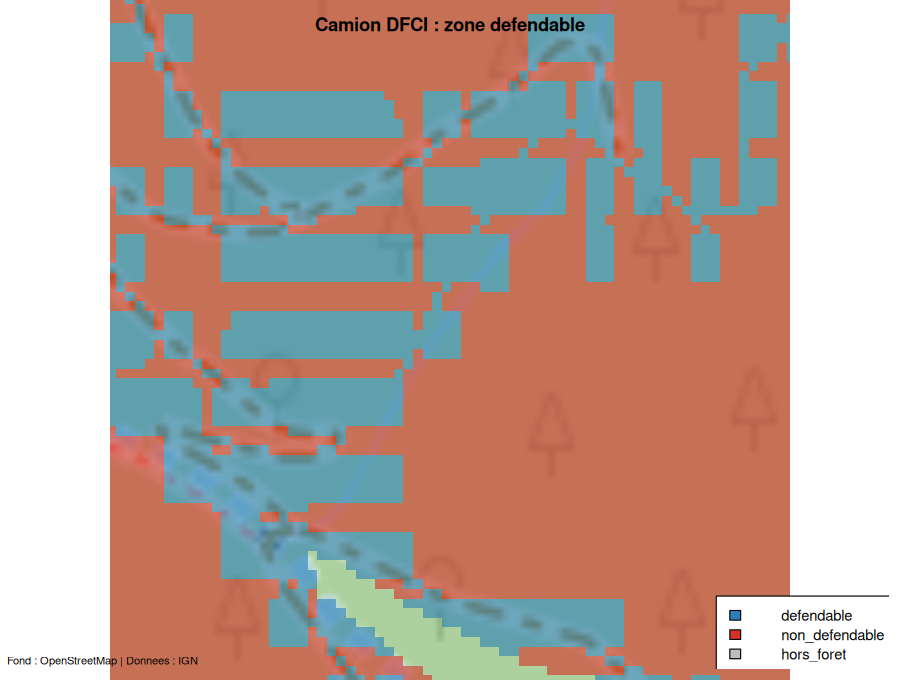
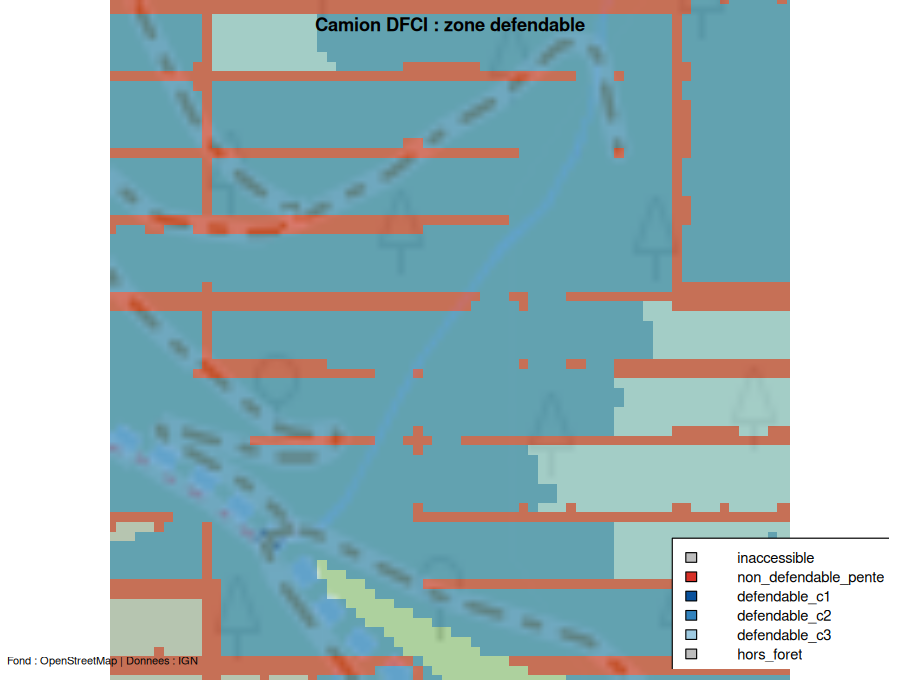
docs(pkgdown): attributions completes (SEILAPLAN, SylvaRoad, FRD, ForestRoadNetwork), schema desserte, cartes refaites
Attributions -- mises a jour et verifiees sur toutes les pages :
- README : section attribution refondue en 4 groupes (Sylvaccess ; SEILAPLAN ;
  SylvaRoad + Forest Road Designer ; ForestRoadNetwork), refs et provenance exactes.
- CITATION.cff : 5 references (Sylvaccess + les 4 oeuvres derivees, CFF).
- Vignettes foretaccess/desserte/architecture/cartes : blocs attribution alignes.
- Corrige "C. Klemet" -> "Klemet" (prenom jamais atteste dans le depot).

Schema : nouveau man/figures/architecture.svg (rendable par pkgdown, contrairement a
docs/architecture.svg supprime) couvrant les DEUX epics -- cartographie de
l'accessibilite ET conception de desserte -- avec attributions inline. README et
brief repointes. Corrige aussi "DFCI beta" et "Statut : Lots 0 a 8" perimes.

Cartes refaites : la carte DFCI etait cassee (palette 3 classes vs 6 du moteur
radial ; `classes_source` obsolete remplace par le flag `dfci` lu par preprocess).
data-raw/cartes.R corrige (flag dfci + palette 6 classes), 8 PNG regeneres depuis
l'IGN/OSM. Note de perf de cartes.Rmd corrigee : le cable n'est plus "impraticable"
(noyau Rust parallelise, ~40 s sur ColduPre a c_sup=3).

Claude-Session: https://claude.ai/code/session_01WWgnMu3WuRq1JEVUj1EdEM

diff --git a/README.md b/README.md
@@ -29,7 +29,7 @@ pre <- preprocess(
 
 sk  <- skidder(pre)          # débusqueur
 po  <- porteur(pre)          # porteur
-df  <- camion_dfci(pre)      # zone défendable DFCI (beta)
+df  <- camion_dfci(pre)      # zone défendable DFCI (moteur radial)
 cab <- potentiel_cable(pre)  # lignes de câble faisables (noyau Rust)
 sel <- selectionner_lignes(cab)
 
@@ -46,18 +46,23 @@ vignette("foretaccess")
 
 ## Architecture
 
-![Architecture ForêtAccess](docs/architecture.svg)
+![Architecture ForêtAccess](man/figures/architecture.svg)
 
-Détail des couches, périmètre et décisions : voir le **brief projet**
+Deux chaînes partant d'un prétraitement commun : la **cartographie de
+l'accessibilité** (moteurs terrestres et câble, dérivés de Sylvaccess) et la
+**conception de desserte** (surface de coût, tracé A\*, réseau, flux/typage,
+optimisation). Détail des couches, périmètre et décisions : voir le **brief projet**
 [`docs/foretaccess-brief.md`](docs/foretaccess-brief.md).
 
 ## Statut
 
 Développement *spec-driven* / agile par lots (`specs/0XX-*.md` + ADR + tests de
-non-régression). Les **Lots 0 à 8** sont livrés (prétraitement, moteurs skidder /
-porteur / câble Rust, sélection câble, camion DFCI beta, passage à l'échelle par
-tuilage, base spatiale & agrégation) ; la doc d'usage est en place (Lot 9). La
-feuille de route vit dans [`docs/ROADMAP.md`](docs/ROADMAP.md).
+non-régression). **Cartographie de l'accessibilité** (Lots 0-13) livrée et
+**validée cellule à cellule contre Sylvaccess** sur le jeu ColduPre (skidder
+99,95 %, porteur 99,72 %, câble 98,36 %, DFCI 99,87 %) — version majeure `v1.0.0`.
+**Conception de desserte** (Lots 14-18 : coût, tracé A\* Rust, réseau, flux/typage,
+optimisation) livrée en `v1.2.0`. Les feuilles de route vivent dans
+[`docs/ROADMAP.md`](docs/ROADMAP.md) et [`docs/ROADMAP-desserte.md`](docs/ROADMAP-desserte.md).
 
 ## Stack
 
@@ -73,11 +78,31 @@ spatiale potentiellement partagés.
 
 ## Licence & attribution
 
-Distribué sous **GPL v3** (travail dérivé de Sylvaccess, GPL v3). Merci de citer :
+ForêtAccess est distribué sous **GPL v3**. C'est un **travail dérivé** de plusieurs
+modèles libres, chacun sous GPL v3 ; merci de les citer selon la partie utilisée.
+
+**Cartographie de l'accessibilité (moteurs terrestres & câble, Lots 0-13)** — dérivé de
+**Sylvaccess** (INRAE, S. Dupire) :
 
 - Dupire S., Bourrier F., Monnet J.-M., Berger F. (2015). *Sylvaccess : un modèle pour
   cartographier automatiquement l'accessibilité des forêts.* Revue Forestière Française.
-- Dupire S., Bourrier F., Berger F. (2015). *Predicting load path and tensile forces
+- Dupire S., Bourrier F., Berger F. (2016). *Predicting load path and tensile forces
   during cable yarding operations on steep terrain.* Journal of Forest Research,
   DOI [10.1007/s10310-015-0503-4](https://doi.org/10.1007/s10310-015-0503-4).
 - Sylvaccess : DOI [10.15454/JUBESS](https://doi.org/10.15454/JUBESS).
+
+**Optimisation de la hauteur des supports câble (Lot 13)** — méthode **SEILAPLAN**
+(graphe + Dijkstra de Bont & Heinimann), P. Moll et al.
+([github.com/piMoll/SEILAPLAN](https://github.com/piMoll/SEILAPLAN), GPL v3) :
+
+- Bont L., Heinimann H.R. (2012). *Optimum geometric layout of a single cable road.*
+  European Journal of Forest Research.
+- Bont L.G., Moll P.E., Ramstein L., Frutig F., Heinimann H.R., Schweier J. (2022).
+  *SEILAPLAN, a QGIS Plugin for Cable Road Layout Design.* Croat. j. for. eng. 43(2).
+
+**Conception de desserte — solveur de tracé (Lot 15)** — porté de **SylvaRoad**
+(S. Dupire / SylvaLab / ONF, [gitlab.com/SDupire/sylvaroad](https://gitlab.com/SDupire/sylvaroad),
+GPL v3) et de **Forest Road Designer** (PANOimagen / Gob. La Rioja, GPL v3).
+
+**Conception de desserte — réseau, flux & typage (Lots 16-18)** — repris de
+**ForestRoadNetwork** (Klemet, plugin QGIS, GPL v3).

diff --git a/docs/foretaccess-brief.md b/docs/foretaccess-brief.md
@@ -88,7 +88,7 @@ Choix structurants :
 
 ## 3. Architecture cible
 
-Schéma complet (vectoriel, versionnable) : [`docs/architecture.svg`](architecture.svg).
+Schéma complet (vectoriel, versionnable) : [`man/figures/architecture.svg`](../man/figures/architecture.svg).
 
 Version Mermaid (rendue sur GitHub) :
 
@@ -295,7 +295,6 @@ foretaccess/
 ├─ Cargo.toml                   # workspace Rust
 ├─ docs/
 │  ├─ foretaccess-brief.md      # ce document
-│  ├─ architecture.svg          # schéma cible
 │  ├─ PRD.md                    # (à générer)
 │  ├─ ROADMAP.md                # (à générer)
 │  └─ adr/                      # ADR-001…007
